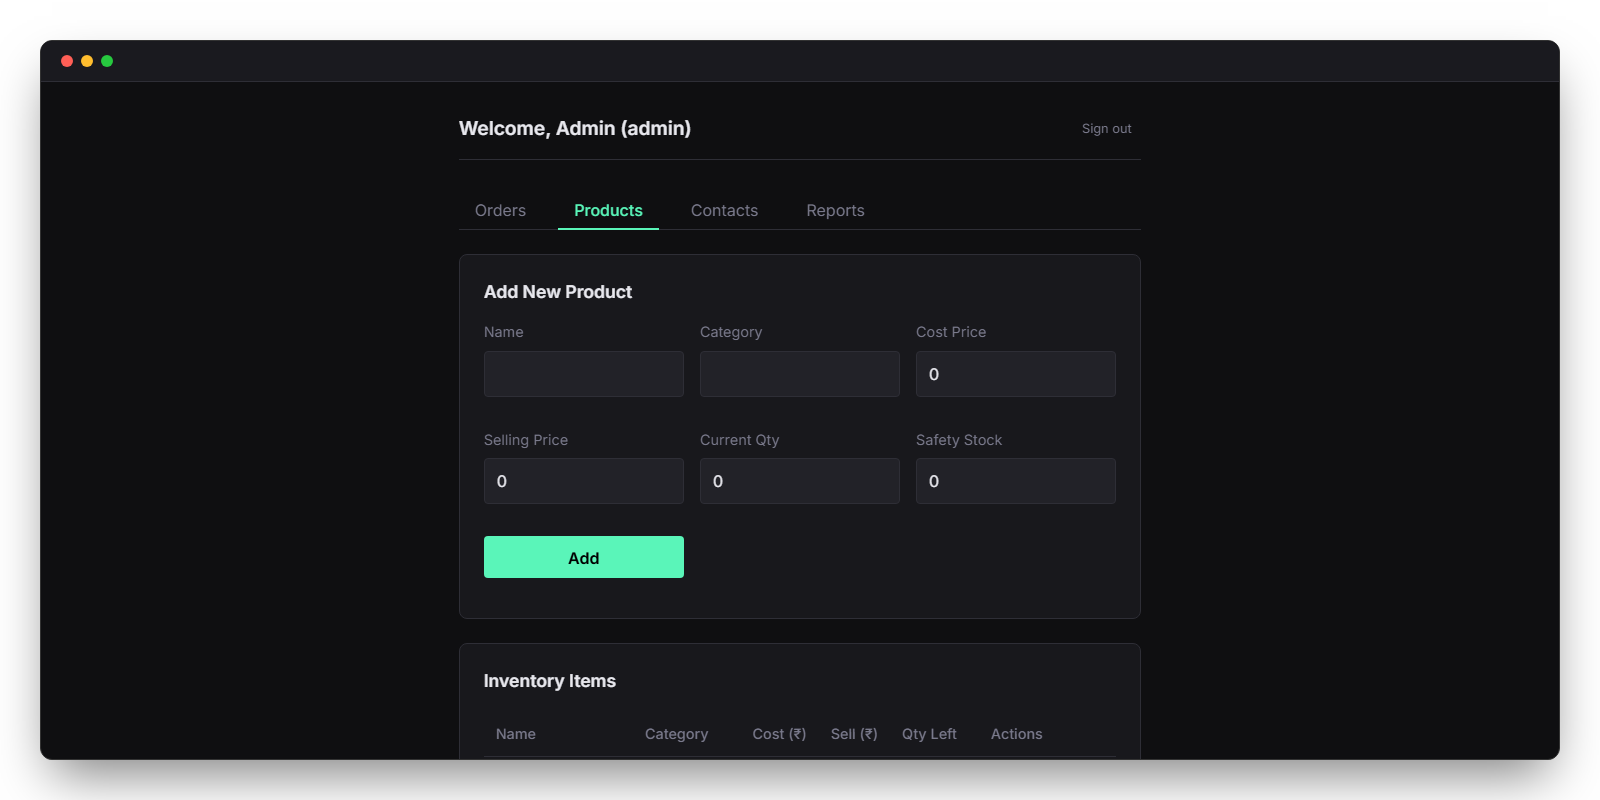
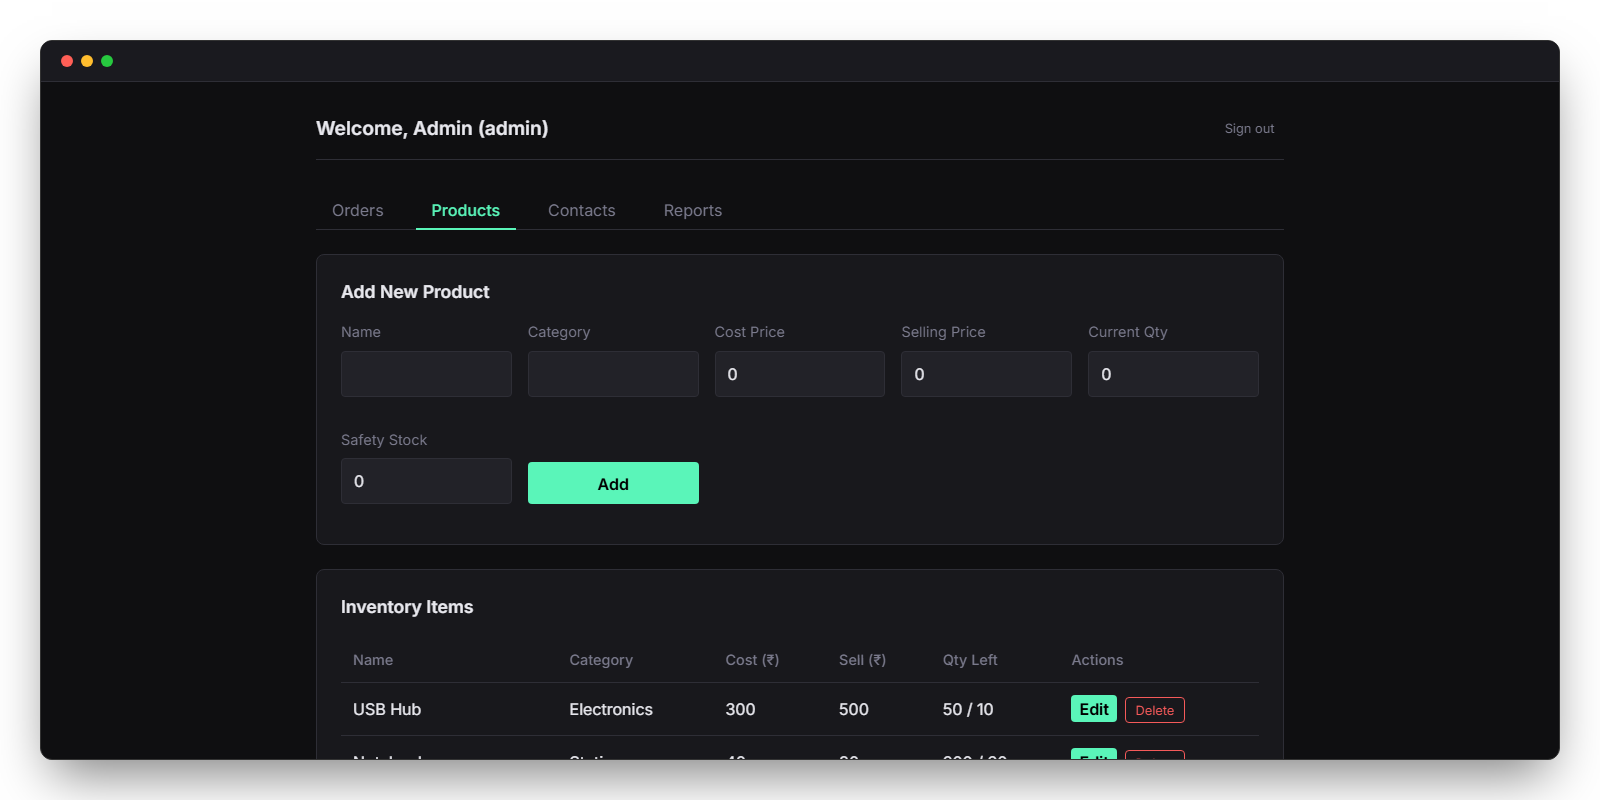
Change screenshot width to 800px and fix dashboard layout flex item shrink bug

diff --git a/frontend/src/style.css b/frontend/src/style.css
@@ -130,6 +130,7 @@ input, select, button {
 /* Dashboard Specific Layouts */
 .dashboard {
   max-width: 1000px;
+  width: 100%;
   margin: 0 auto;
   padding: 2rem 1rem;
 }

diff --git a/capture_screenshots.py b/capture_screenshots.py
@@ -9,7 +9,7 @@ inject_mac_ui = """() => {
     captureArea.id = 'mac-capture-area';
     captureArea.style.padding = '40px';
     captureArea.style.background = 'transparent';
-    captureArea.style.width = '1200px';
+    captureArea.style.width = '800px';
     captureArea.style.minHeight = '760px';
     captureArea.style.height = 'max-content';
     captureArea.style.boxSizing = 'border-box';
@@ -78,7 +78,7 @@ def main():
 
     with sync_playwright() as p:
         browser = p.chromium.launch(headless=True)
-        context = browser.new_context(viewport={'width': 1280, 'height': 800})
+        context = browser.new_context(viewport={'width': 880, 'height': 800})
         page = context.new_page()
 
         print("Navigating to login page...")
@@ -125,10 +125,10 @@ def main():
         # Restore size
         page.evaluate('''() => {
             const el = document.getElementById('mac-capture-area');
-            el.style.width = '1200px';
+            el.style.width = '800px';
             el.style.height = 'max-content';
         }''')
-        page.set_viewport_size({"width": 1280, "height": 800})
+        page.set_viewport_size({"width": 880, "height": 800})
 
         print("Navigating to Contacts...")
         page.click('text=Contacts')
